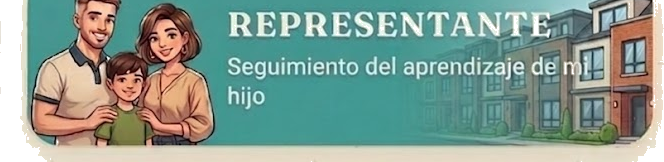
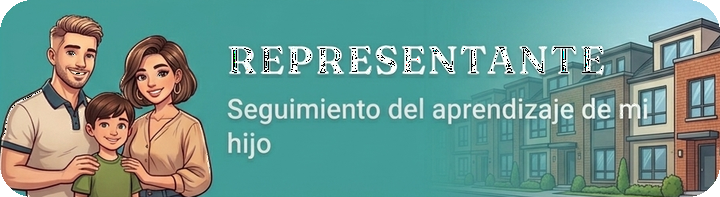
Add files via upload

diff --git a/frontend/index.html b/frontend/index.html
@@ -294,14 +294,16 @@
     width:100% !important;
     max-width:100% !important;
     padding:0 !important;
-    margin:0 0 12px 0 !important;
+    margin:0 0 14px 0 !important;
     border:none !important;
-    background:none !important;
+    outline:none !important;
+    background:transparent !important;
     cursor:pointer;
-    border-radius:18px;
+    border-radius:20px;
     overflow:hidden;
-    box-shadow:0 5px 16px rgba(0,0,0,0.14);
+    box-shadow:0 4px 14px rgba(18,40,64,0.10);
     line-height:0 !important;
+    -webkit-tap-highlight-color:transparent;
   }
   .rolecard-img:active{transform:scale(0.98);opacity:0.95;}
   .rolecard-img + .rolecard-img{margin-top:12px;}
@@ -313,6 +315,8 @@
     height:auto !important;
     display:block !important;
     border:none !important;
+    outline:none !important;
+    vertical-align:top;
   }
   .authbody{
     padding:20px 14px 24px !important;
